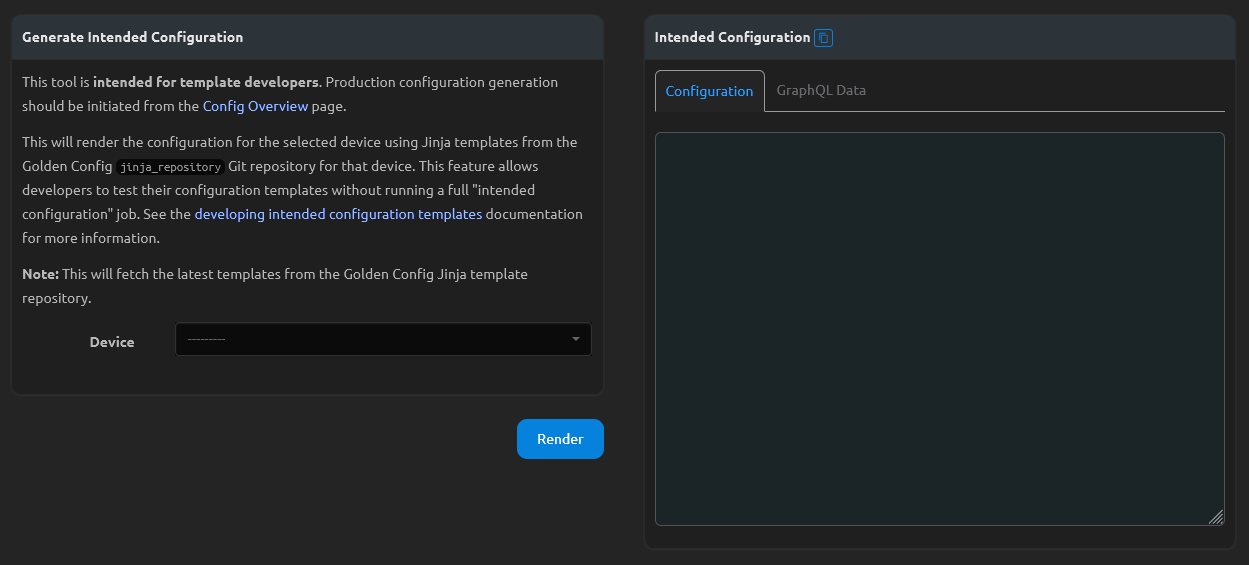
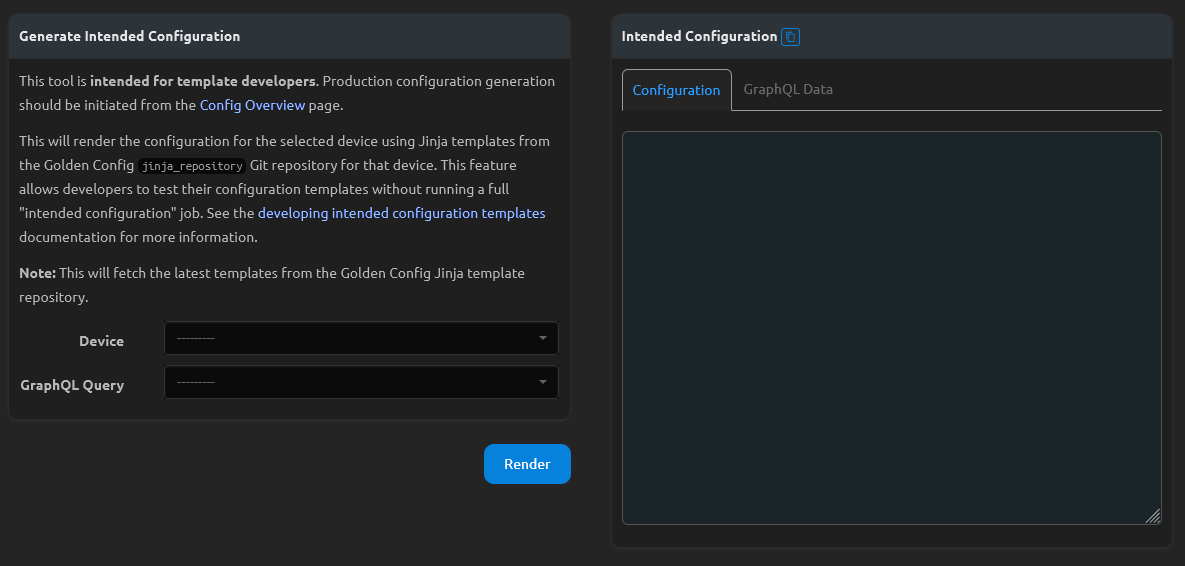
Add GraphQL query form field to the "Generate Intended Config" view (#841)

diff --git a/nautobot_golden_config/templates/nautobot_golden_config/generate_intended_config.html b/nautobot_golden_config/templates/nautobot_golden_config/generate_intended_config.html
@@ -52,7 +52,7 @@
                     This will fetch the latest templates from the Golden Config Jinja template repository.
                     </p>
                     {% render_field form.device %}
-                    {% render_field form.git_repository %}
+                    {% render_field form.graphql_query %}
                 </div>
             </div>
             <div class="button-container text-right">
@@ -74,10 +74,14 @@
                     </ul>
                     <div class="tab-content" id="id_rendered_config_tabs">
                         <div class="tab-pane active" id="id_intended_config_tab_content">
-                            <pre><code id="id_rendered_config_code_block"></code></pre>
+                            {% comment %}
+                            The attributes `contenteditable="true"` and `onbeforeinput="return false"` are used
+                            to let the <code> block be selectable but not editable, emulating a textarea but supporting nested html tags.
+                            {% endcomment %}
+                            <pre><code id="id_rendered_config_code_block" contenteditable="true" onbeforeinput="return false"></code></pre>
                         </div>
                         <div class="tab-pane" id="id_graphql_data_tab_content">
-                            <pre><code class="language-json" id="id_graphql_data_code_block"></code></pre>
+                            <pre><code class="language-json" id="id_graphql_data_code_block" contenteditable="true" onbeforeinput="return false"></code></pre>
                         </div>
                     </div>
                 </div>
@@ -90,16 +94,55 @@
 {% block javascript %}
     {{ block.super }}
     <script>
+        // When a device is selected, populate the GraphQL query field with the default query for that device
+        async function handleDeviceFieldSelect(event) {
+            const device_id = event.params.data.id;
+            const goldenconfigsettings_url = "{% url 'plugins-api:nautobot_golden_config-api:goldenconfigsetting-list' %}";
+
+            // fetch the golden config settings for the device
+            const data = {device_id: device_id, depth: 1};
+            const query_params = new URLSearchParams(data).toString();
+            const response = await fetch(goldenconfigsettings_url + "?" + query_params, {
+                method: "GET",
+                headers: {"Content-Type": "application/json"}
+            });
+            const responseData = await response.json();
+
+            // set the graphql query field to the default query for the device
+            if (response.ok && responseData.count > 0) {
+                const graphql_query = responseData.results[0]?.sot_agg_query;
+
+                // Check if the option for the GraphQL query already exists
+                if ($("#id_graphql_query").find("option[value='" + graphql_query.id + "']").length) {
+                    $("#id_graphql_query").val(graphql_query.id).trigger("change");
+
+                // Otherwise create a new Option and select it
+                } else {
+                    var newOption = new Option(graphql_query.display, graphql_query.id, true, true);
+                    $("#id_graphql_query").append(newOption).trigger("change");
+                }
+            }
+        }
+
+        // jQuery used here because it is required for select2 events
+        $("#id_device").on("select2:select", handleDeviceFieldSelect);
+
+        // Initialize the copy to clipboard button
         new ClipboardJS('.copy-rendered-config');
+
+        // Sanitize a string for display in a code block by replacing HTML tags with character references
         const sanitize = function(string) {
             return string.replace(/&/g, "&amp;").replace(/</g, "&lt;").replace(/>/g, "&gt;");
         };
+
+        // Custom form submission handling
         async function handleFormSubmit(event) {
             event.preventDefault(); // Prevent default form submission
 
             try {
                 const rendered_config_code_block = document.getElementById("id_rendered_config_code_block");
-                const device = document.getElementById("id_device").value;
+                const device_id = document.getElementById("id_device").value;
+                const graphql_query_id = document.getElementById("id_graphql_query").value;
                 const url = "{% url 'plugins-api:nautobot_golden_config-api:generate_intended_config' %}";
                 const graphql_data_code_block = document.getElementById("id_graphql_data_code_block");
                 const graphql_data_tab = document.getElementById("id_graphql_data_tab");
@@ -112,7 +155,7 @@
                 graphql_data_tab.classList.remove("active");
 
                 // fetch the intended config
-                const data = {device_id: device};
+                const data = {device_id: device_id, graphql_query_id: graphql_query_id};
                 const query_params = new URLSearchParams(data).toString();
                 const response = await fetch(url + "?" + query_params, {
                     method: "GET",

diff --git a/nautobot_golden_config/api/views.py b/nautobot_golden_config/api/views.py
@@ -20,6 +20,7 @@ from nautobot.core.api.views import (
 from nautobot.dcim.models import Device
 from nautobot.extras.api.views import NautobotModelViewSet, NotesViewSetMixin
 from nautobot.extras.datasources.git import ensure_git_repository
+from nautobot.extras.models import GraphQLQuery
 from nautobot_plugin_nornir.constants import NORNIR_SETTINGS
 from nornir import InitNornir
 from nornir_nautobot.plugins.tasks.dispatcher import dispatcher
@@ -232,18 +233,40 @@ class GenerateIntendedConfigView(NautobotAPIVersionMixin, GenericAPIView):
                 type=OpenApiTypes.UUID,
                 location=OpenApiParameter.QUERY,
             ),
+            OpenApiParameter(
+                name="graphql_query_id",
+                required=False,
+                type=OpenApiTypes.UUID,
+                location=OpenApiParameter.QUERY,
+            ),
         ]
     )
     def get(self, request, *args, **kwargs):
         """Generate intended configuration for a Device."""
         device = self._get_object(request, Device, "device_id")
+        graphql_query = None
+        graphql_query_id_param = request.query_params.get("graphql_query_id")
+        if graphql_query_id_param:
+            try:
+                graphql_query = GraphQLQuery.objects.get(pk=request.query_params.get("graphql_query_id"))
+            except GraphQLQuery.DoesNotExist as exc:
+                raise GenerateIntendedConfigException(
+                    f"GraphQLQuery with id '{graphql_query_id_param}' not found"
+                ) from exc
         settings = models.GoldenConfigSetting.objects.get_for_device(device)
         if not settings:
             raise GenerateIntendedConfigException("No Golden Config settings found for this device")
-        if not settings.sot_agg_query:
-            raise GenerateIntendedConfigException("Golden Config settings sot_agg_query not set")
         if not settings.jinja_repository:
             raise GenerateIntendedConfigException("Golden Config settings jinja_repository not set")
+
+        if graphql_query is None:
+            if settings.sot_agg_query is not None:
+                graphql_query = settings.sot_agg_query
+            else:
+                raise GenerateIntendedConfigException("Golden Config settings sot_agg_query not set")
+
+        if "device_id" not in graphql_query.variables:
+            raise GenerateIntendedConfigException("The selected GraphQL query is missing a 'device_id' variable")
 
         try:
             git_repository = settings.jinja_repository
@@ -253,7 +276,7 @@ class GenerateIntendedConfigView(NautobotAPIVersionMixin, GenericAPIView):
 
         filesystem_path = self._get_jinja_template_path(settings, device, git_repository)
 
-        status_code, graphql_data = graph_ql_query(request, device, settings.sot_agg_query.query)
+        status_code, graphql_data = graph_ql_query(request, device, graphql_query.query)
         if status_code == status.HTTP_200_OK:
             try:
                 intended_config = self._render_config_nornir_serial(

diff --git a/nautobot_golden_config/tests/test_api.py b/nautobot_golden_config/tests/test_api.py
@@ -567,19 +567,6 @@ class GenerateIntendedConfigViewAPITestCase(APITestCase):
         self.assertTrue("detail" in response.data)
         self.assertEqual("Error trying to sync git repository", response.data["detail"])
 
-        # test jinja_repository not set
-        self.golden_config_setting.jinja_repository = None
-        self.golden_config_setting.save()
-        response = self.client.get(
-            reverse("plugins-api:nautobot_golden_config-api:generate_intended_config"),
-            data={"device_id": self.device.pk},
-            **self.header,
-        )
-
-        self.assertHttpStatus(response, status.HTTP_400_BAD_REQUEST)
-        self.assertTrue("detail" in response.data)
-        self.assertEqual(response.data["detail"], "Golden Config settings jinja_repository not set")
-
         # test no sot_agg_query on GoldenConfigSetting
         self.golden_config_setting.sot_agg_query = None
         self.golden_config_setting.save()
@@ -593,6 +580,20 @@ class GenerateIntendedConfigViewAPITestCase(APITestCase):
         self.assertHttpStatus(response, status.HTTP_400_BAD_REQUEST)
         self.assertTrue("detail" in response.data)
         self.assertEqual("Golden Config settings sot_agg_query not set", response.data["detail"])
+
+        # test jinja_repository not set
+        self.golden_config_setting.jinja_repository = None
+        self.golden_config_setting.save()
+
+        response = self.client.get(
+            reverse("plugins-api:nautobot_golden_config-api:generate_intended_config"),
+            data={"device_id": self.device.pk},
+            **self.header,
+        )
+
+        self.assertHttpStatus(response, status.HTTP_400_BAD_REQUEST)
+        self.assertTrue("detail" in response.data)
+        self.assertEqual(response.data["detail"], "Golden Config settings jinja_repository not set")
 
         # test no GoldenConfigSetting found for device
         GoldenConfigSetting.objects.all().delete()

diff --git a/nautobot_golden_config/filters.py b/nautobot_golden_config/filters.py
@@ -245,6 +245,27 @@ class ConfigReplaceFilterSet(NautobotFilterSet):
 class GoldenConfigSettingFilterSet(NautobotFilterSet):
     """Inherits Base Class NautobotFilterSet."""
 
+    device_id = django_filters.ModelMultipleChoiceFilter(
+        queryset=Device.objects.all(),
+        label="Device (ID)",
+        method="filter_device_id",
+    )
+
+    def filter_device_id(self, queryset, name, value):  # pylint: disable=unused-argument
+        """Filter by Device ID."""
+        if not value:
+            return queryset
+        golden_config_setting_ids = []
+        for instance in value:
+            if isinstance(instance, Device):
+                device = instance
+            else:
+                device = Device.objects.get(id=instance)
+            golden_config_setting = models.GoldenConfigSetting.objects.get_for_device(device)
+            if golden_config_setting is not None:
+                golden_config_setting_ids.append(golden_config_setting.id)
+        return queryset.filter(id__in=golden_config_setting_ids)
+
     class Meta:
         """Boilerplate filter Meta data for Config Remove."""
 

diff --git a/nautobot_golden_config/filter_extensions.py b/nautobot_golden_config/filter_extensions.py
@@ -1,0 +1,30 @@
+"""FilterSet and FilterForm extensions for the Golden Config app."""
+
+from django.db.models import Q
+from nautobot.apps.filters import FilterExtension, MultiValueCharFilter
+
+
+def filter_graphql_query_variables(queryset, name, value):  # pylint: disable=unused-argument
+    """Filter the queryset based on the presence of variables."""
+    query = Q()
+    for variable_name in value:
+        query |= Q(**{f"variables__{variable_name}__isnull": True})
+    return queryset.exclude(query)
+
+
+class GraphQLQueryFilterExtension(FilterExtension):
+    """Filter extensions for the extras.GraphQLQuery model."""
+
+    model = "extras.graphqlquery"
+
+    filterset_fields = {
+        "nautobot_golden_config_graphql_query_variables": MultiValueCharFilter(
+            field_name="variables",
+            lookup_expr="exact",
+            method=filter_graphql_query_variables,
+            label="Variable key(s) exist",
+        ),
+    }
+
+
+filter_extensions = [GraphQLQueryFilterExtension]

diff --git a/nautobot_golden_config/forms.py b/nautobot_golden_config/forms.py
@@ -7,7 +7,7 @@ import django.forms as django_forms
 from nautobot.apps import forms
 from nautobot.dcim.models import Device, DeviceType, Location, Manufacturer, Platform, Rack, RackGroup
 from nautobot.extras.forms import NautobotBulkEditForm, NautobotFilterForm, NautobotModelForm
-from nautobot.extras.models import DynamicGroup, GitRepository, JobResult, Role, Status, Tag
+from nautobot.extras.models import DynamicGroup, GitRepository, GraphQLQuery, JobResult, Role, Status, Tag
 from nautobot.tenancy.models import Tenant, TenantGroup
 
 from nautobot_golden_config import models
@@ -607,4 +607,10 @@ class GenerateIntendedConfigForm(django_forms.Form):
         queryset=Device.objects.all(),
         required=True,
         label="Device",
+    )
+    graphql_query = forms.DynamicModelChoiceField(
+        queryset=GraphQLQuery.objects.all(),
+        required=True,
+        label="GraphQL Query",
+        query_params={"nautobot_golden_config_graphql_query_variables": "device_id"},
     )
